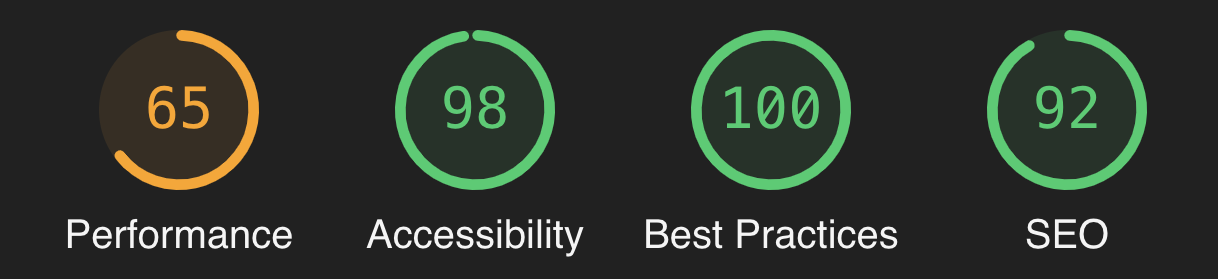
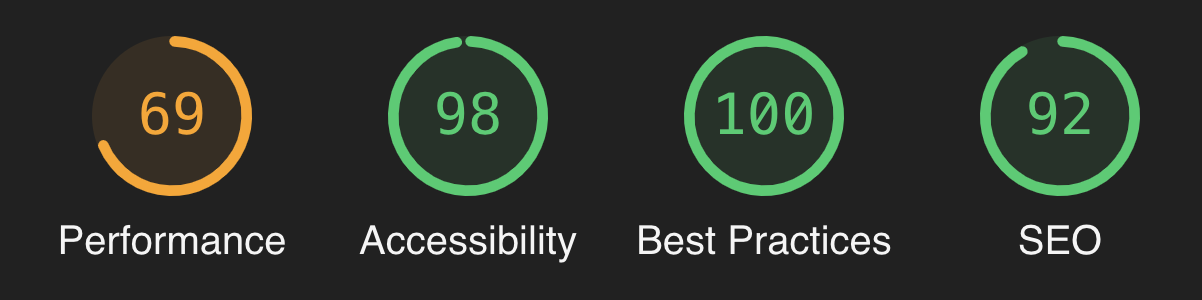
lighthouse content finished

diff --git a/testing.md b/testing.md
@@ -508,6 +508,7 @@ I used **Coverage** to identify the percentage of code the tests had covered and
 <details>
 <summary>Setting up Coverage</summary>
 <p>
+
 To set up and use Coverage, I used the following commands;
 
 - To Install:
@@ -520,7 +521,7 @@ To set up and use Coverage, I used the following commands;
 
 - To run all the tests written in a certain app and generate a report (second command is to view the report in the terminal).
 
-    `$ coverage run --source=<'app name'> manage.py test`
+    `$ coverage run --source=<'app_name'> manage.py test`
 
     ` $ coverage report`
 
@@ -556,14 +557,14 @@ The W3C Markup Validator and W3C CSS Validator Services were used to validate ev
 [**JS hint**](https://jshint.com/) was used to check for any errors with my Javascript files. 
 JS was also tested by opening the developer console window on Chrome and checking for any errors as I clicked through the site.
 
-- Warnings received;
+- <ins>Warnings received;</ins>
 
     `let' is available in ES6 (use 'esversion: 6') or Mozilla JS extensions (use moz).`
     `'template literal syntax' is only available in ES6 (use 'esversion: 6').`
 
     Warnings occurred as JShint is using ECMAScript 5.1 specification and my code uses ECMAScript 6 specific syntax. However, all code is valid.
 
-- Undefined variable;
+- <ins>Undefined variable;</ins>
 
     `$`
 
@@ -615,15 +616,21 @@ JS was also tested by opening the developer console window on Chrome and checkin
 
 <ins>Performance</ins>
 
-The low-performance review was mainly driven by the following metrics:
+The low-performance review was mainly driven by **First Contentful Paint (FCP)**. I implemented some of the suggested measures to try and improve my score, however there is no noticable delay in page loading time. I also checked the load time using the [Page load time](https://chrome.google.com/webstore/detail/page-load-time/fploionmjgeclbkemipmkogoaohcdbig?hl=en) chrome extension which resulted in a respectable 428ms. 
 
-`Serve images in next-gen formats`;
+Actions taken:
 
-I tried converting my images to JPEG 2000 as suggested, however, the images were not loading due to their limitations of only working on certain browsers. Therefore I kept my images in a PNG and JPG format.
+[`Ensure text remains visible during webfont load`](https://web.dev/font-display/)
+- Added 'font-display: swap' to '@font-face' on flaticon.css file
+- Added '&display=swap' parameter to the end of Google Fonts URL in base.css
 
-`Properly size images`;
+[`Eliminate render-blocking resources`](https://web.dev/render-blocking-resources/)
+- Lazy loading - added class 'lazy' to img tags
+- Added 'rel="preload" as="style"' attributes to base.css file
+- Added 'async' to JS script tags to indicate to the browser that the script file can be executed asynchronously
 
-As images are uploaded through the image URL form input I am not able to take any action on adjusting image sizes.
+[`Serve images in next-gen formats`](https://web.dev/uses-webp-images/?utm_source=lighthouse&utm_medium=lr)
+- I tried converting my images to JPEG 2000 as suggested, however, the images were not loading due to their limitations of only working on certain browsers. Therefore I have kept my image in a PNG and JPG format.
 
 <ins>Accessibility</ins>
 
@@ -680,7 +687,7 @@ I didn't take any actions as the error was for displaying 'read more' which I be
 | [] | Homepage vh including address bar on mobile so cropping bottom of element                   |  I found a solution on [css-tricks](https://css-tricks.com/the-trick-to-viewport-units-on-mobile/) but as this updates the value of --vh, it will trigger a repaint of the page, and the user may experience a jump as a result. As this is only a layout issue on IOS and doesn't hinder UX I decided not to implement this solution. |
 | [x] | Item is removed from order history if deleted by admin                   |  This bug was fixed by following [this thread](https://app.slack.com/client/T0L30B202/CGWQJQKC5/thread/C7HS3U3AP-1597961336.047800) found on slack. I added a discontinued field to my models (with default False), updated delete view to change discontinued to true instead of physically deleting item and then referenced to this field in my templates  |
 | [x] | Comment reposts on page refresh                   |  Redirect path added to views after post request  |
-| [x] | User able to type in any quantity value for item when in shopping bag                  |  Changed 'quantity > 0' to 'quantity in range(1, 99)' and added elif statement for any value over 99 to send an error message to the user   |
+| [x] | User able to type in any quantity value for item when in shopping bag                  |  Changed 'quantity > 0' to 'quantity in range(1, 99)' and added elif statement for any value over 99 to send an error message to the user. This was acknowledged and helped to solve by a fellow student, @Clint.    |
 | [x] | Success toast showing shopping bag when not appropriate                  |  Added a variable called on_page to the product and programme detail page and used this as a filter within my success toast template. This ensures that the bag view is only displayed on the success message when a user is on these specific pages.     |
 | [x] | Plural suffix returned when value is 1                   |  I added 'pluralize' tag to my count filters to ensure text was presented with correct spelling |
 | [x] | If filter by category then sort items, filter is removed                   |  Changed sort from dropdown to selector with options, added my own custom styling. Styling involved replacing the custom arrow and adding my own text with absolute positioning. I also replaced the default dropdown arrow by removing the 'dropdown-toggle' class so that the arrow style matched. |

diff --git a/README.md b/README.md
@@ -938,7 +938,7 @@ When you clone a repository, the repository is copied on to your local machine, 
 - The help and support received from the tutors at [Code Institute](https://codeinstitute.net/).
 
 - The [Code Institute](https://codeinstitute.net/) Slack Community.
-    - Clint - for helping me to solve the issue on limiting quantity added in shopping bag
+    - @Clint, for helping me to solve the issue on limiting quantity added in shopping bag
 
 - Friends & Family for continuous feedback and support.
 
